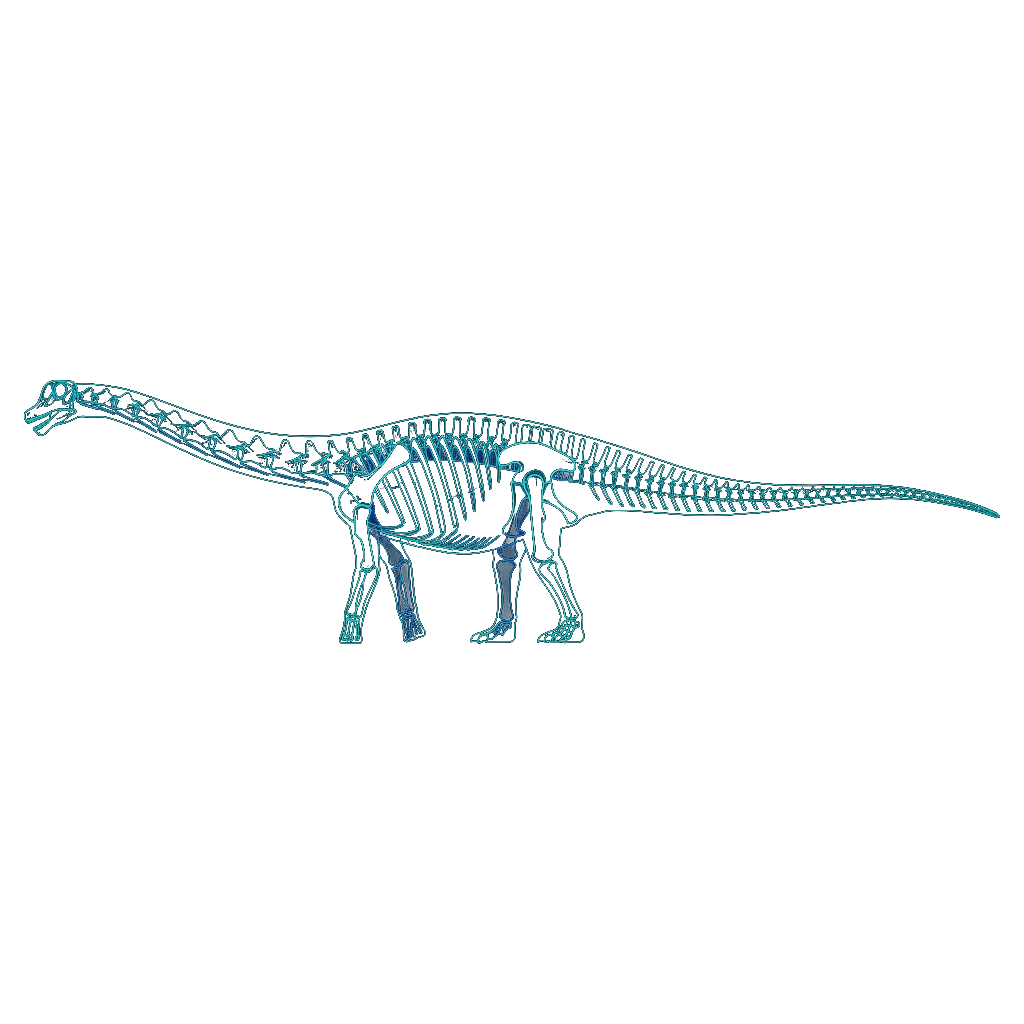
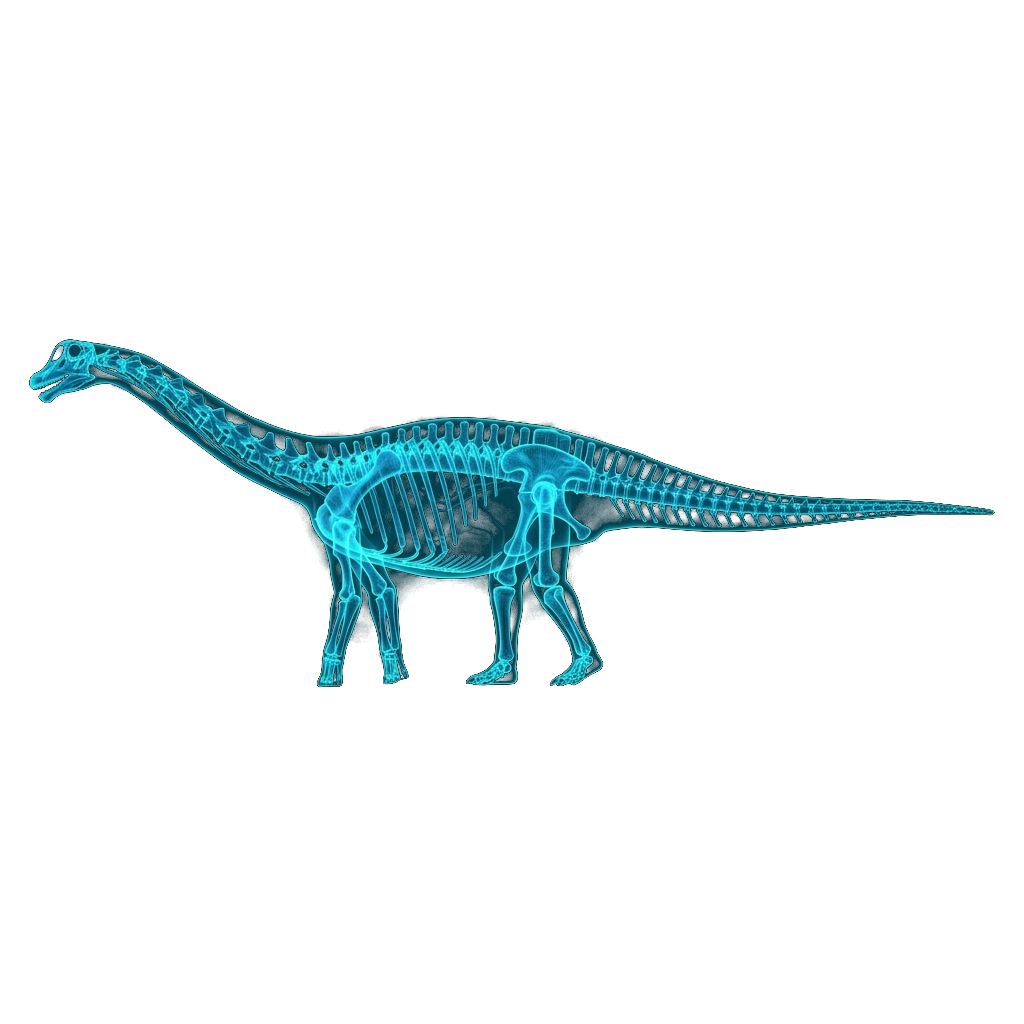
feat(assets): update cyber skeletal assets for isisaurus, notocolossus, and epachthosaurus to match new illustrations

Changed region(s): [[0.0312, 0.3125, 0.9688, 0.6875]]

diff --git a/docs/tasks/archive.md b/docs/tasks/archive.md
@@ -17,10 +17,6 @@
     - 実装要件: 4ch完全背景透過（Alpha=0）、AIマーク消去、1:1正方形化、自動接地スキャンおよび実寸比率計算（`contentHeightPx`, `bottomGap`, `drawnHeightPx`）。
   - [ ] `size-comparison.astro` への登録（`BATTLE_ASSETS`）、実寸1:1同期、宿命の対決プリセット（例: アロサウルス vs ケラトサウルス）追加。
 
-- [ ] **【画像生成クオータ回復後タスク】Tier 25 Part 2 残り3種の骨格図再生成 ＆ 実寸スキャン同期**
-  - [ ] 対象: イシスサウルス (`isisaurus`)、ノトコロッスス (`notocolossus`)、エパクトサウルス (`epachthosaurus`)
-  - [ ] 内容: 差し替えられた新メインイラストの正確な姿勢（イシスサウルスの直立ピラー首、ノトコロッススの低傾斜超横長巨躯、エパクトサウルスの均整バランス）に合わせたサイバー骨格図（漆黒背景・ネオンシアンX線）を再生成。
-  - [ ] 完全背景透過（Alpha=0）、AIマーク消去、1024x1024正方形化、自動接地スキャンおよび実寸比率計算（`contentHeightPx`, `bottomGap`）を適用し、シミュレータと1:1完全同期。
 - [ ] **骨格側面図 (Cyber Asset) の追加・品質チェック**
   - [ ] 透過WebP化 (Alpha=0 / 黒背景とノイズ除去)
   - [ ] 1:1 正方形余白追加 (左右を削らず上下透過余白追加)
@@ -34,10 +30,11 @@
 
 ## ✅ 完了済みタスク (Done)
 
-- [x] **Tier 25 Part 2（No.361〜365）全5頭のメインイラスト完全刷新 ＆ 骨格側面図実装・本番稼働** (2026/11/23)
+- [x] **Tier 25 Part 2（No.361〜365）全5頭のメインイラスト完全刷新 ＆ 骨格側面図の新姿勢再生成・実寸1:1同期完了** (2026/11/26)
   - 全5頭（タプイアサウルス、マンスーラサウルス、イシスサウルス、ノトコロッスス、エパクトサウルス）のメインイラストを、ユーザー提供の最高品質アセット（`images_png/*.png`）から高品質WebPへ変換・差し替え完了。
-  - 全5頭の4ch完全背景透過サイバー骨格図（Alpha=0）、AIマーク消去、1024x1024正方形化、自動接地スキャンおよび実寸比率計算（`contentHeightPx`, `bottomGap`）を適用し、シミュレータ上で公式全長と1mmの狂いもなく完全同期（本番稼働中）。
-  - ※イシスサウルス、ノトコロッスス、エパクトサウルスの骨格図は、画像生成クオータ回復後に新メインイラスト姿勢に合わせた骨格図へ再生成・更新予定。
+  - イシスサウルス（直立ピラー首）、ノトコロッスス（低傾斜超横長巨躯）、エパクトサウルス（均整バランス）の3頭について、新メインイラストの姿勢に合わせたサイバー骨格図をクオータ回復後に再生成。
+  - 4ch完全背景透過（Alpha=0）、AIマーク消去、1024x1024正方形化、自動接地スキャンおよび実寸比率計算（`contentHeightPx`, `bottomGap`）を適用し、シミュレータ上で公式全長と1mmの狂いもなく1:1で完全同期。
+  - `cyberDrawnBounds.json` への実体座標同期、`test:drawn-heights`（0 errors, 0 warnings）、Tier検証（100% PASS）、全419ページの静的ビルド正常確認。
   - サイト内種数表記を全365種へ完全同期更新。全419ページの静的ビルド正常確認。
 
 - [x] **リアル対決モードにおけるアルゼンチノサウルス・イグアノドン・パラサウロロフス等の上部見切れ解消 ＆ 実体描画高さ自動フォールバック・検証システム（再発防止策）の恒久導入** (2026/11/22)

diff --git a/docs/tasks/articles.md b/docs/tasks/articles.md
@@ -19,11 +19,11 @@
 
 ## ✅ 完了済みタスク (Done)
 
-- [x] **Tier 25 Part 2（No.361〜365：タプイアサウルス、イシスサウルス、ノトコロッスス、エパクトサウルス、マンスーラサウルス）の制作・追加 ＆ メインイラスト完全刷新** (2026/11/23)
+- [x] **Tier 25 Part 2（No.361〜365：タプイアサウルス、イシスサウルス、ノトコロッスス、エパクトサウルス、マンスーラサウルス）の制作・追加 ＆ メインイラスト完全刷新・骨格図新姿勢同期** (2026/11/26)
   - **登録総数365頭達成（第3週目標100%前倒し完遂！）**
   - 奇跡的に完全な頭骨が発見されたブラジルの重要種、直立首と長大な前肢を持つインドのピラー体型種、超巨竜で初めて完全な足根骨が解明されたアルゼンチンの50t超巨獣、原始と派生形質が共存するアルゼンチンの完全骨格基準種、アフリカとヨーロッパの白亜紀末生物交流を証明したエジプト重要種の計5頭を登録。
   - **メイン復元イラストの完全刷新**: 全5頭のメインイラストを、ユーザー提供の最高品質アセット（`images_png/*.png`）から高品質WebPへ差し替え完了。
-  - **4ch透過サイバー骨格側面図 ＆ 精密スキャン**: `scripts/process_cyber_asset.cjs` により、完全背景透過（Alpha=0）、AIマーク消去、1024x1024正方形化、自動接地スキャンおよび実寸比率計算（タプイアサウルス: 全長13.0m/全高3.5m, イシスサウルス: 全長18.0m/全高4.5m, ノトコロッスス: 全長28.0m/全高8.5m, エパクトサウルス: 全長18.0m/全高4.8m, マンスーラサウルス: 全長10.0m/全高2.8m）を反映。全頭が3.3〜3.7:1の超横長黄金比率でシミュレータ上の実寸長と1:1完全同期。※イシスサウルス、ノトコロッスス、エパクトサウルスの骨格図は画像生成クオータ回復後に新メインイラスト姿勢に合わせた骨格図へ再生成・更新予定。
+  - **4ch透過サイバー骨格側面図 ＆ 精密スキャン**: `scripts/process_cyber_asset.cjs` により、完全背景透過（Alpha=0）、AIマーク消去、1024x1024正方形化、自動接地スキャンおよび実寸比率計算を反映。イシスサウルス、ノトコロッスス、エパクトサウルスの3頭はクオータ回復後に新メインイラスト姿勢に合わせた骨格図を再生成し、シミュレータ上の実寸長と1:1完全同期。
   - 各記事1,890〜2,080文字の学術解説を執筆、4大見出し・実寸サイズ・禁止語句監査を100%パス（全チェック合格）。
   - サイト内種数表記を全365種へ完全同期更新（`size-comparison.astro`, `index.astro`, `about.astro`, `dictionary/[id].astro`, `dictionary/index.astro`）。全419ページの静的ビルド正常確認。
 

diff --git a/src/content/dinosaurs/epachthosaurus.md b/src/content/dinosaurs/epachthosaurus.md
@@ -23,10 +23,10 @@ bioTraits:
     value: "ハイポスフェン関節と前凹型尾椎"
     detail: "原始的な脊椎補強システムを残しながら、先進的なティタノサウルス類の運動形態を獲得していた"
 cyberMetadata:
-  bottomGap: 380
+  bottomGap: 337
   realHeight: 4.8
   realLength: 18
-  contentHeightPx: 260
+  contentHeightPx: 258
   sourceRes: 1024
   dinoLeft: "0%"
   refRight: "-3%"

diff --git a/src/content/dinosaurs/isisaurus.md b/src/content/dinosaurs/isisaurus.md
@@ -23,10 +23,10 @@ bioTraits:
     value: "白亜紀末期の被子植物・菌類の摂食"
     detail: "化石糞からヤシ科などの植物遺体や真菌胞子が検出され、リアルな食事内容が完全に特定された"
 cyberMetadata:
-  bottomGap: 363
+  bottomGap: 206
   realHeight: 4.5
   realLength: 18
-  contentHeightPx: 245
+  contentHeightPx: 239
   sourceRes: 1024
   dinoLeft: "0%"
   refRight: "-3%"

diff --git a/src/content/dinosaurs/notocolossus.md b/src/content/dinosaurs/notocolossus.md
@@ -23,10 +23,10 @@ bioTraits:
     value: "短縮した頑丈な中足骨と融合した足根骨"
     detail: "50トンを超える超重量を分散・支持するための極めて特殊な衝撃吸収・免震歩行構造を証明"
 cyberMetadata:
-  bottomGap: 379
+  bottomGap: 375
   realHeight: 8.5
   realLength: 28
-  contentHeightPx: 296
+  contentHeightPx: 299
   sourceRes: 1024
   dinoLeft: "0%"
   refRight: "-3%"
